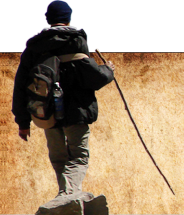
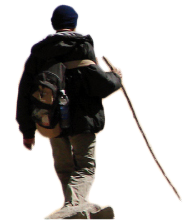
Algunos arreglos en los estilos. Cambios en el footer

diff --git a/media/css/style.css b/media/css/style.css
@@ -1,7 +1,9 @@
+/*
 @font-face {
     font-family: 'Avenir Next LT Pro';
-    src: local("../fonts/AvenirNextLTPro-Regular.otf");
+    src: url("../fonts/AvenirNextLTPro-Regular.otf");
 }
+*/
 
 body {
     margin:auto;
@@ -125,7 +127,7 @@ header {
     float:right;
     padding:10px;
     list-style: none;
-    margin: 0;
+    margin: 0 22px;
 }
 #barra_superior a {
     color: #C6C7C8;
@@ -134,6 +136,7 @@ header {
 
 #body {
     background:#7F7F7F;
+    padding-bottom: 20px;
 }
 
 #body h1 {
@@ -145,40 +148,49 @@ header {
     color: #FFF;
 }
 
-footer a {
+footer {
+    height:164px;
+    background:url("/media/img/footer2.png") no-repeat;
+    margin-top: -10px;
+    position: relative;
+    padding: 10px 10px 0;
+}
+
+footer ul {
+    list-style:none;
+    overflow: hidden;
+    padding:0;
+    margin: 40px 0 0 180px;
+}
+footer li {
+    display:inline;
+    padding:0 10px;
+    border-right: 1px solid #333;
+}
+li.first {
+    padding-left:0;
+}
+li.last {
+  border-right: 0;
+}
+
+footer li a {
     text-decoration:none;
     color:black;
     font-size:14px;
 }
 
 footer p {
-    width:500px;
-    font-size:10px;
-    text-align:center;
-    margin:0px 0px 0px 210px;
-}
-
-footer {
-    overflow:hidden;
-    height:168px;
-    background:url("/media/img/footer2.jpg") no-repeat;
-    text-align:center;
+    margin:50px 0 0 180px;
 }
 
 
-
-footer ul {
-    list-style:none;
-    width:80%;
-    margin:80px 0px 0px 135px;
-   
+#caminante {
+    position: absolute;
+    bottom:0;
+    left:0;
+    
 }
-
-footer ul li {
-    float:left;
-    padding:10px;
-}
-
 #zonas {
     background: #FFF url(../img/mapa/fondomapa.jpg) repeat-x;
     background-position:center bottom;
@@ -189,8 +201,6 @@ footer ul li {
 }
 #zonas h1 {
     color:#FFF;
-    font-family:"Avenir Next LT Pro", sans-serif;
-    font-size:25pt;
     background:#F29400;
 }
 
@@ -356,7 +366,9 @@ h1#logo_lastexc {
     padding:0px;
 
 }
-
+#news_exc {
+    padding: 0 10px 10px;
+}
 #news_exc h4 a {
     text-decoration:none;
     color:#F29400;
@@ -887,7 +899,7 @@ form .leftCol {
     font-size:8pt;
     font-family:"Avenir Next LT Pro";
 }
-.main-content {
+#body.main-content {
     background: #FFF url(../img/bg_body.png) repeat-x center bottom;
     padding: 1em;
 }
@@ -901,7 +913,16 @@ form .leftCol {
     margin:0;
 }
 .month {
-    font-size: 2em;
+    font-size: 1.5em;
+    margin: 1em auto;
+    text-align: right;
+}
+.month th {
+    text-align: center;
+    padding: 0.5em;
+}
+.month td {
+    padding: 0.5em 0.8em;
 }
 
 .description h3 {

diff --git a/templates/index.html b/templates/index.html
@@ -113,7 +113,7 @@
             </ul>
         </header>
 
-        <div id="body">
+        <div id="body" class="{% block body_class %}home{% endblock %}">
         {% block content %}
             <div id="main">
                 <div id="zonas" class="leftCol">
@@ -202,26 +202,23 @@
         </div>
         <!-- END OF BODY SECTION -->
         <footer>
-            <div id="caminante"></div>
+            <div id="caminante"><img src="/media/img/caminante.png"></div>
             <ul>
-                <li>
-                    <a href=""> Excursiones </a>
+                <li class="first" >
+                    <a href="#"> Excursiones </a>
                 </li>
                 <li>
-                    |
                 </li>
                 <li>
-                    <a href=""> Recomendaciones para la salida</a>
+                    <a href="#"> Recomendaciones para la salida</a>
                 </li>
                 <li >
-                    |
                 </li>
-                <li>
-                    <a href=""> Condiciones de Contratacion</a>
+                <li class="last">
+                    <a href="#"> Condiciones de Contratacion</a>
                 </li>
             </ul>
-            <p> "Sendero Norte" Copyright 2011 - Reservados todos los derechos </p> 
-            <p>Diseño Web: Usina Creativa - Desarrollo Web: Ideas </p>
+            <p><strong>Sendero Norte</strong> Copyright 2011 - Reservados todos los derechos <br /> Diseño: Usina Creativa | <a href="http://inventta.com.ar">Desarrollo: Inventta </a></p>
         </footer>
         <!-- END OF FOOTER SECTION -->
     </div>

diff --git a/templates/calendar.html b/templates/calendar.html
@@ -1,11 +1,12 @@
 {% extends 'index.html' %}
 {% load gencal %}
 {% block title %} Calendario {% endblock %}
+{% block body_class %}
+main-content
+{% endblock %}
 {% block content %}
 <div id="main">
-    <div class="main-content">
         <h1>Calendario de Excursiones</h1>
         {% gencal object_list %}
-    </div>
 </div>
 {% endblock %}
